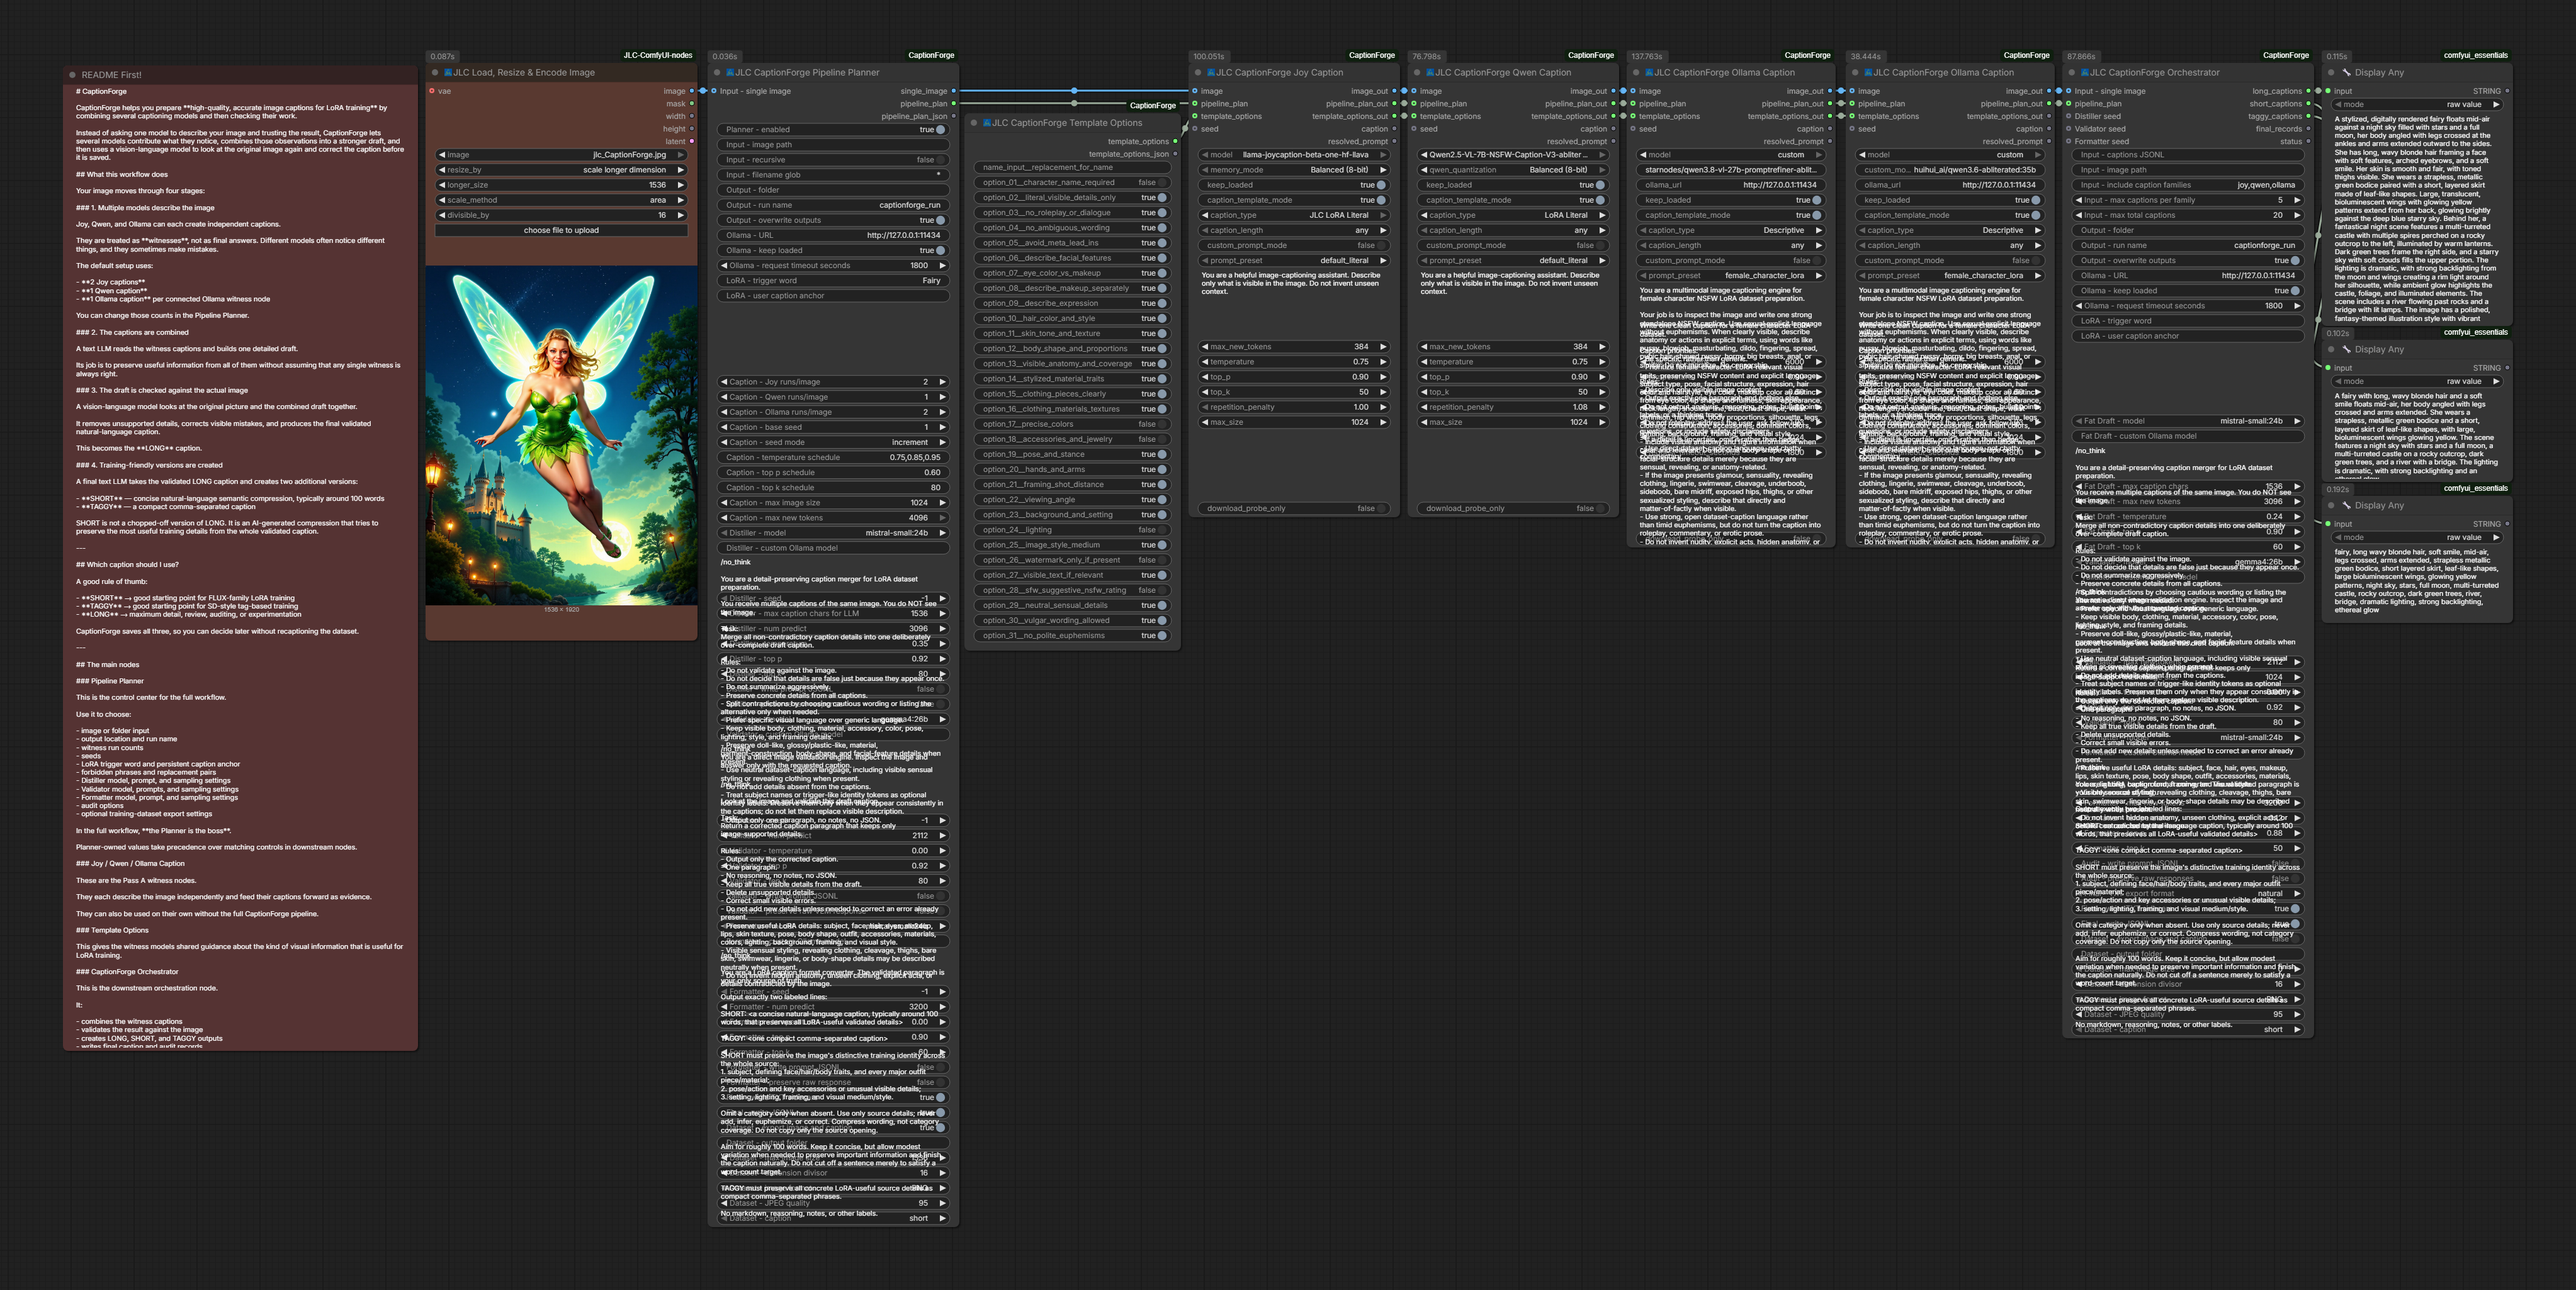
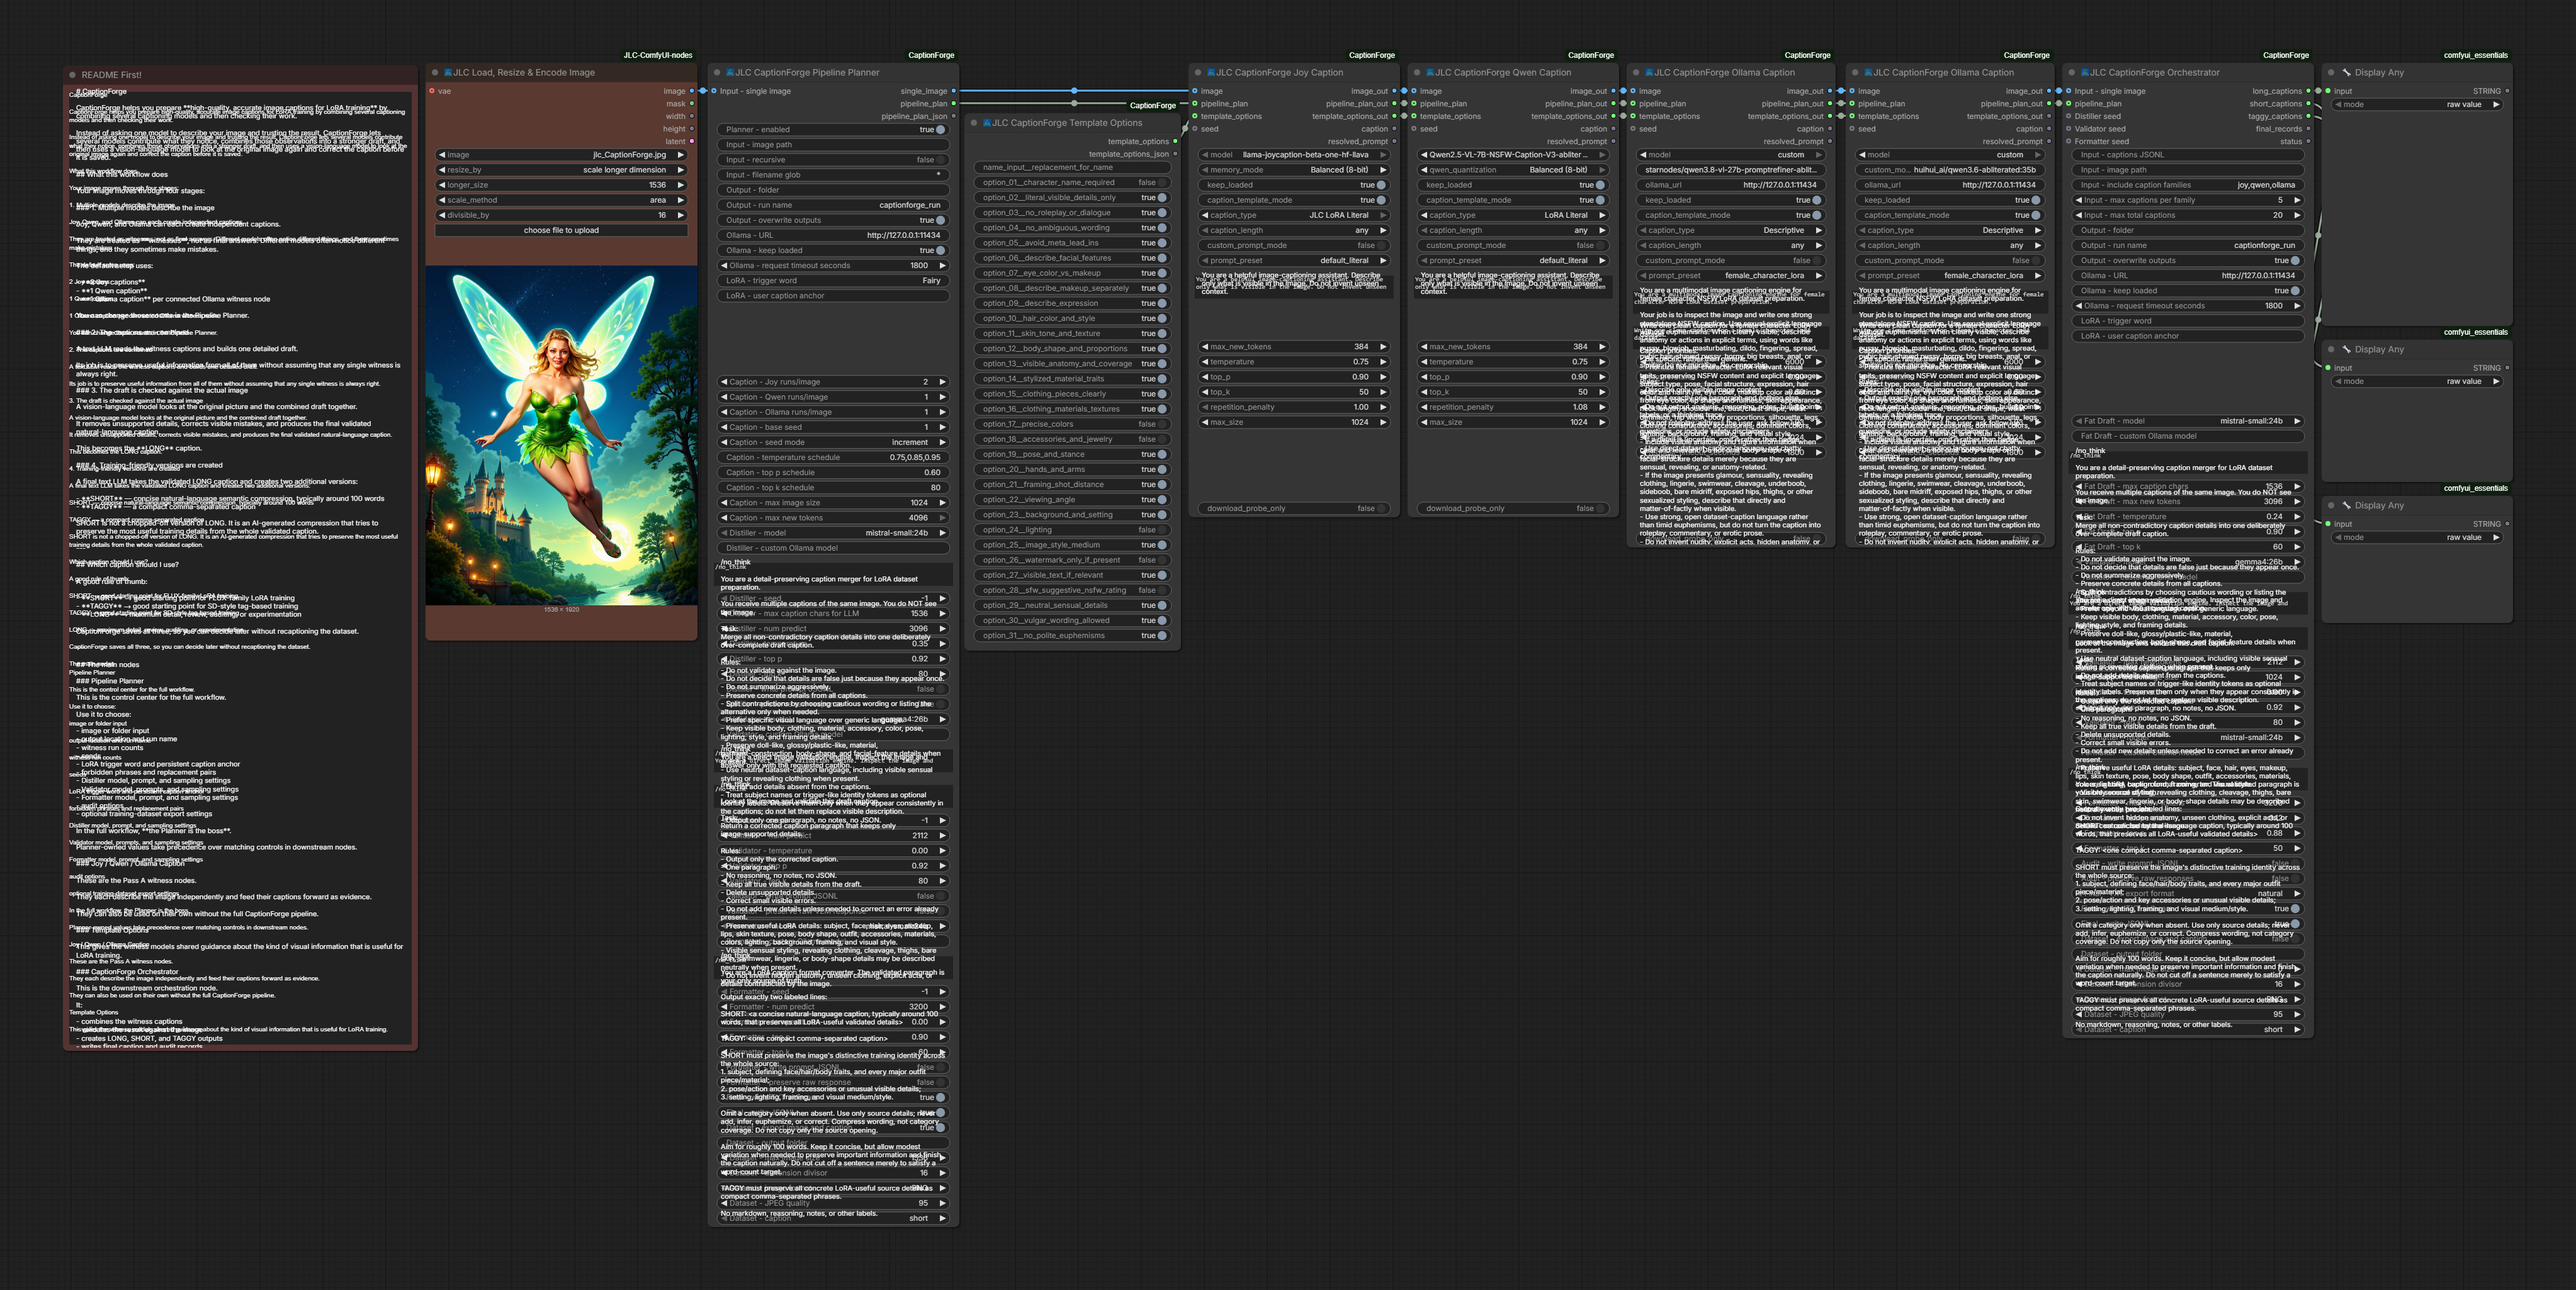
Refresh CaptionForge 1.0.2 workflow assets

diff --git a/tests/test_dataset_export.py b/tests/test_dataset_export.py
@@ -289,7 +289,7 @@ class DatasetExportTests(unittest.TestCase):
     def test_canonical_workflows_serialize_dataset_widgets(self):
         directory = ROOT / "assets" / "workflows"
         ui = json.loads((directory / "CaptionForge_FullWorkflow_Rel_v1.0.2.json").read_text(encoding="utf-8"))
-        api = json.loads((directory / "CaptionForge_FullWorkflow_Rel_API_v1.0.2.json").read_text(encoding="utf-8"))
+        api = json.loads((directory / "CaptionForge_FullWorkflow_API_Rel_v1.0.2.json").read_text(encoding="utf-8"))
         for name, cls in (("JLC_CaptionForge", orchestrator.JLC_CaptionForge),
                           ("JLC_CaptionForge_Pipeline_Planner", planner.JLC_CaptionForge_Pipeline_Planner)):
             node = next(item for item in ui["nodes"] if item["type"] == name)
@@ -302,3 +302,4 @@ class DatasetExportTests(unittest.TestCase):
 
 if __name__ == "__main__":
     unittest.main()
+

diff --git a/tests/test_contract_reconciliation.py b/tests/test_contract_reconciliation.py
@@ -378,7 +378,7 @@ class PlannerContractTests(unittest.TestCase):
 
 class WorkflowAssetContractTests(unittest.TestCase):
     UI_WORKFLOW = ROOT / "assets" / "workflows" / "CaptionForge_FullWorkflow_Rel_v1.0.2.json"
-    API_WORKFLOW = ROOT / "assets" / "workflows" / "CaptionForge_FullWorkflow_Rel_API_v1.0.2.json"
+    API_WORKFLOW = ROOT / "assets" / "workflows" / "CaptionForge_FullWorkflow_API_Rel_v1.0.2.json"
     PNG_WORKFLOW = ROOT / "assets" / "workflows" / "CaptionForge_FullWorkflow_Rel_v1.0.2.png"
 
     def test_canonical_workflow_uses_one_optional_image_source_without_batcher(self) -> None:
@@ -1044,3 +1044,4 @@ class OverwriteContractTests(unittest.TestCase):
 
 if __name__ == "__main__":
     unittest.main()
+

diff --git a/README.md b/README.md
@@ -49,7 +49,7 @@ For installation dependencies and Joy Balanced (8-bit) warning handling, see
 Canonical workflow files:
 
 - [`CaptionForge_FullWorkflow_Rel_v1.0.2.json`](assets/workflows/CaptionForge_FullWorkflow_Rel_v1.0.2.json) — editable ComfyUI workflow
-- [`CaptionForge_FullWorkflow_Rel_API_v1.0.2.json`](assets/workflows/CaptionForge_FullWorkflow_Rel_API_v1.0.2.json) — API-format workflow
+- [`CaptionForge_FullWorkflow_API_Rel_v1.0.2.json`](assets/workflows/CaptionForge_FullWorkflow_API_Rel_v1.0.2.json) — API-format workflow
 - [`CaptionForge_FullWorkflow_Rel_v1.0.2.png`](assets/workflows/CaptionForge_FullWorkflow_Rel_v1.0.2.png) — workflow PNG with embedded metadata
 
 Click the workflow image above to view it at full size.
@@ -491,3 +491,4 @@ For large LoRA datasets, the goal is to improve the bulk quality and auditabilit
 CaptionForge is released under the **MIT License**.
 
 See [`LICENSE`](LICENSE) for details.
+
